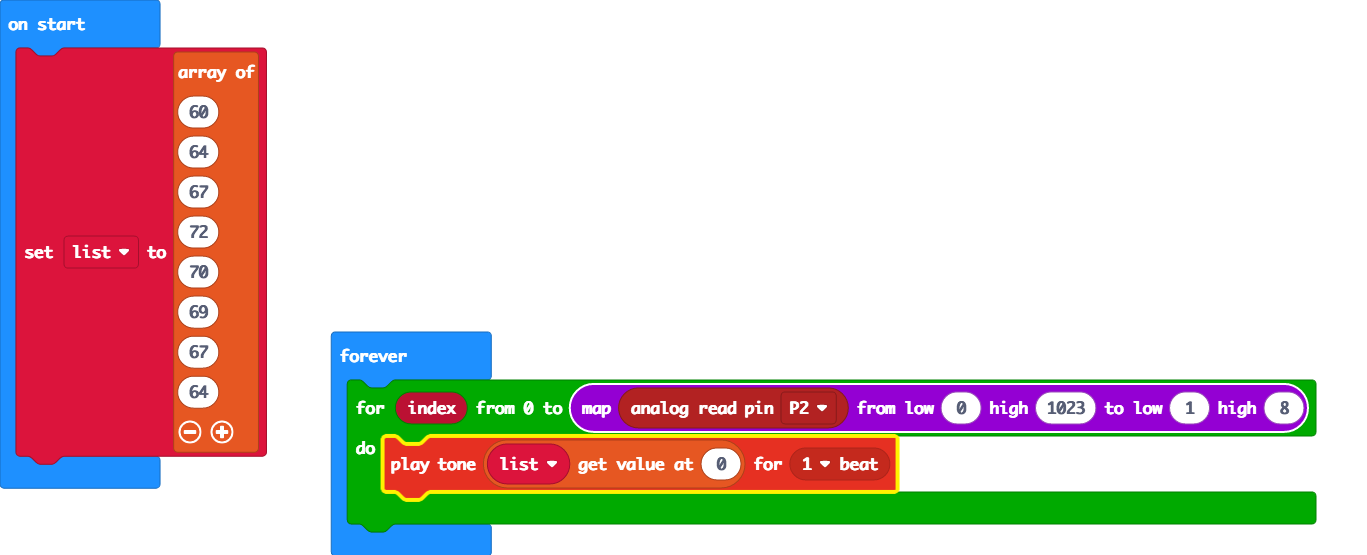
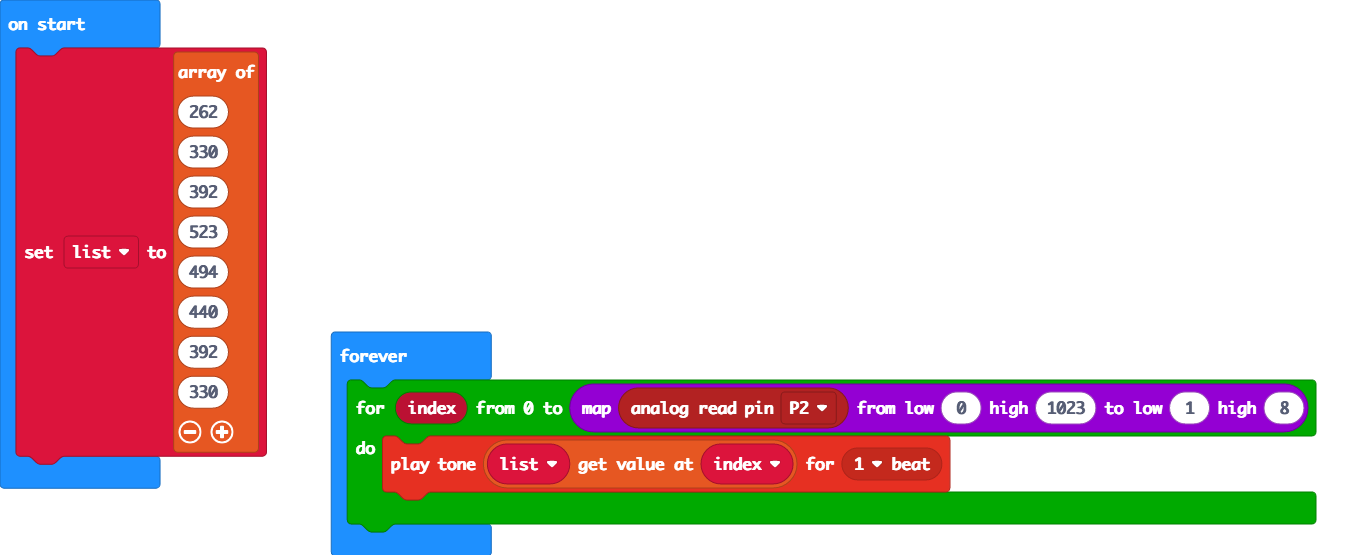
replaced MIDI pitches with frequencies

Changed region(s): [[0.2765, 0.7658, 0.9525, 0.9189], [0.1229, 0.1838, 0.1843, 0.7351], [0.4301, 0.6739, 0.9525, 0.7045]]

diff --git a/main.ts b/main.ts
@@ -1,6 +1,6 @@
-let list = [60, 64, 67, 72, 70, 69, 67, 64]
+let list = [262, 330, 392, 523, 494, 440, 392, 330]
 basic.forever(function () {
     for (let index = 0; index <= Math.map(pins.analogReadPin(AnalogPin.P2), 0, 1023, 1, 8); index++) {
-        music.playTone(list[0], music.beat(BeatFraction.Whole))
+        music.playTone(list[index], music.beat(BeatFraction.Whole))
     }
 })
